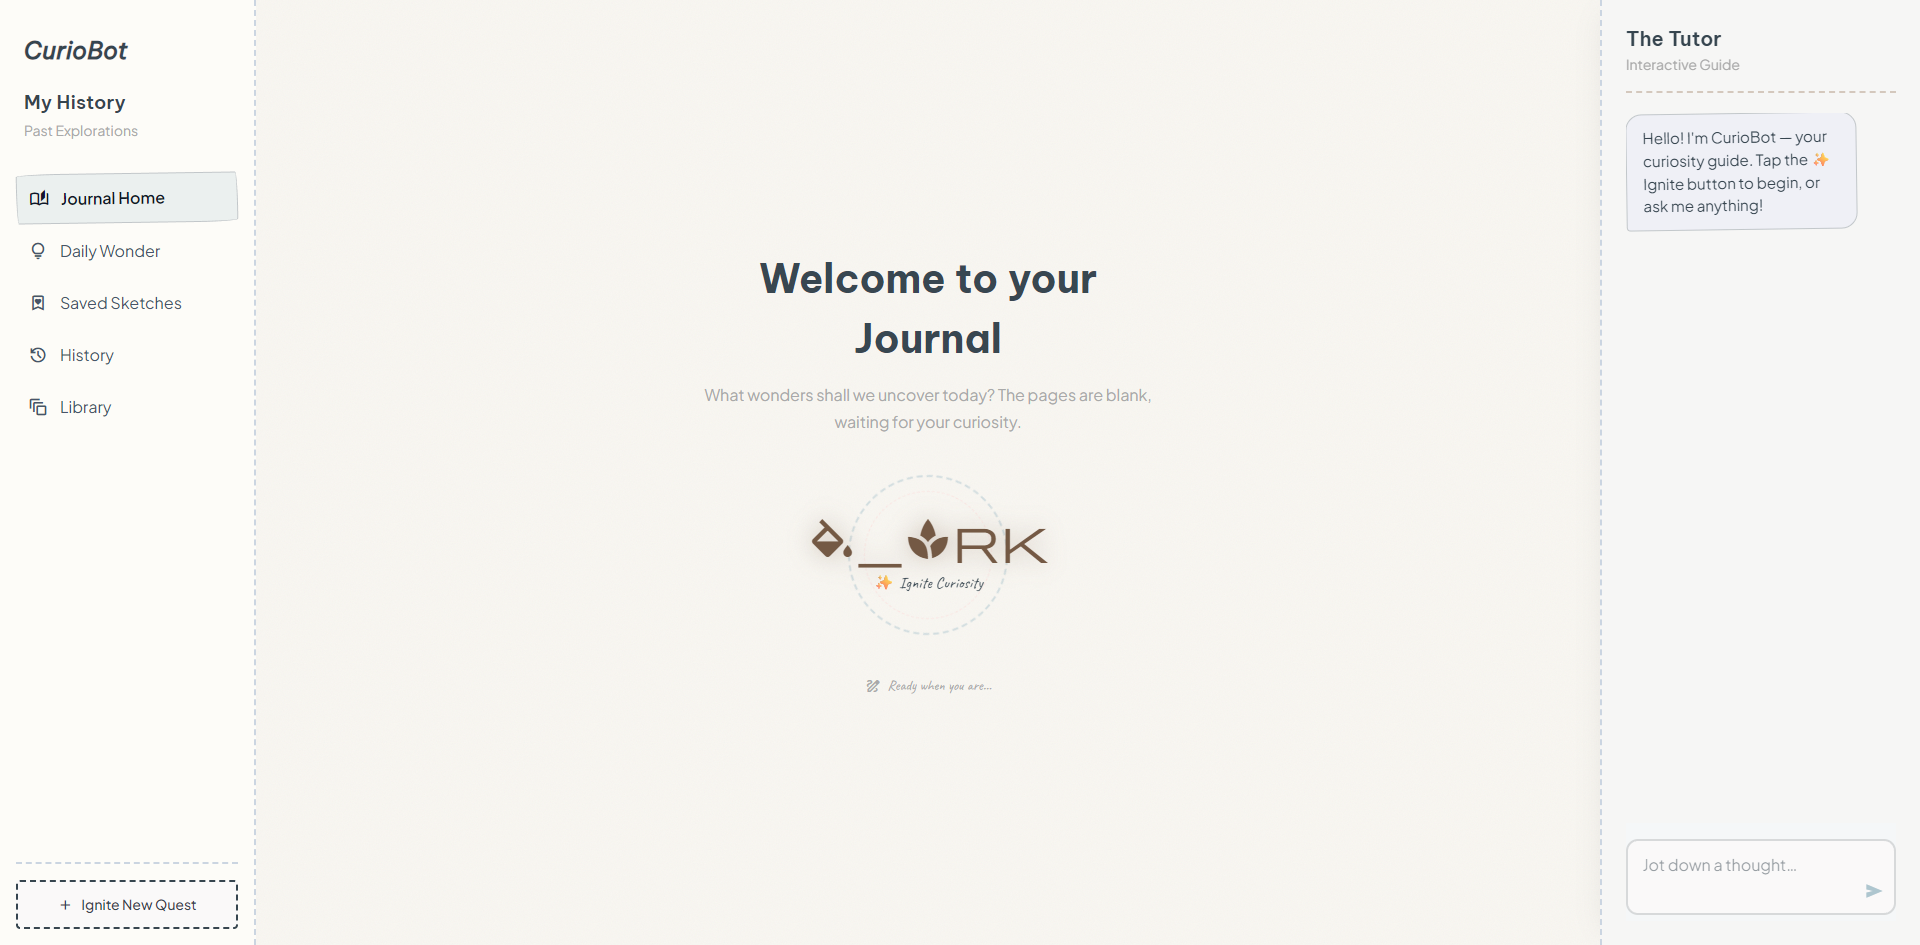
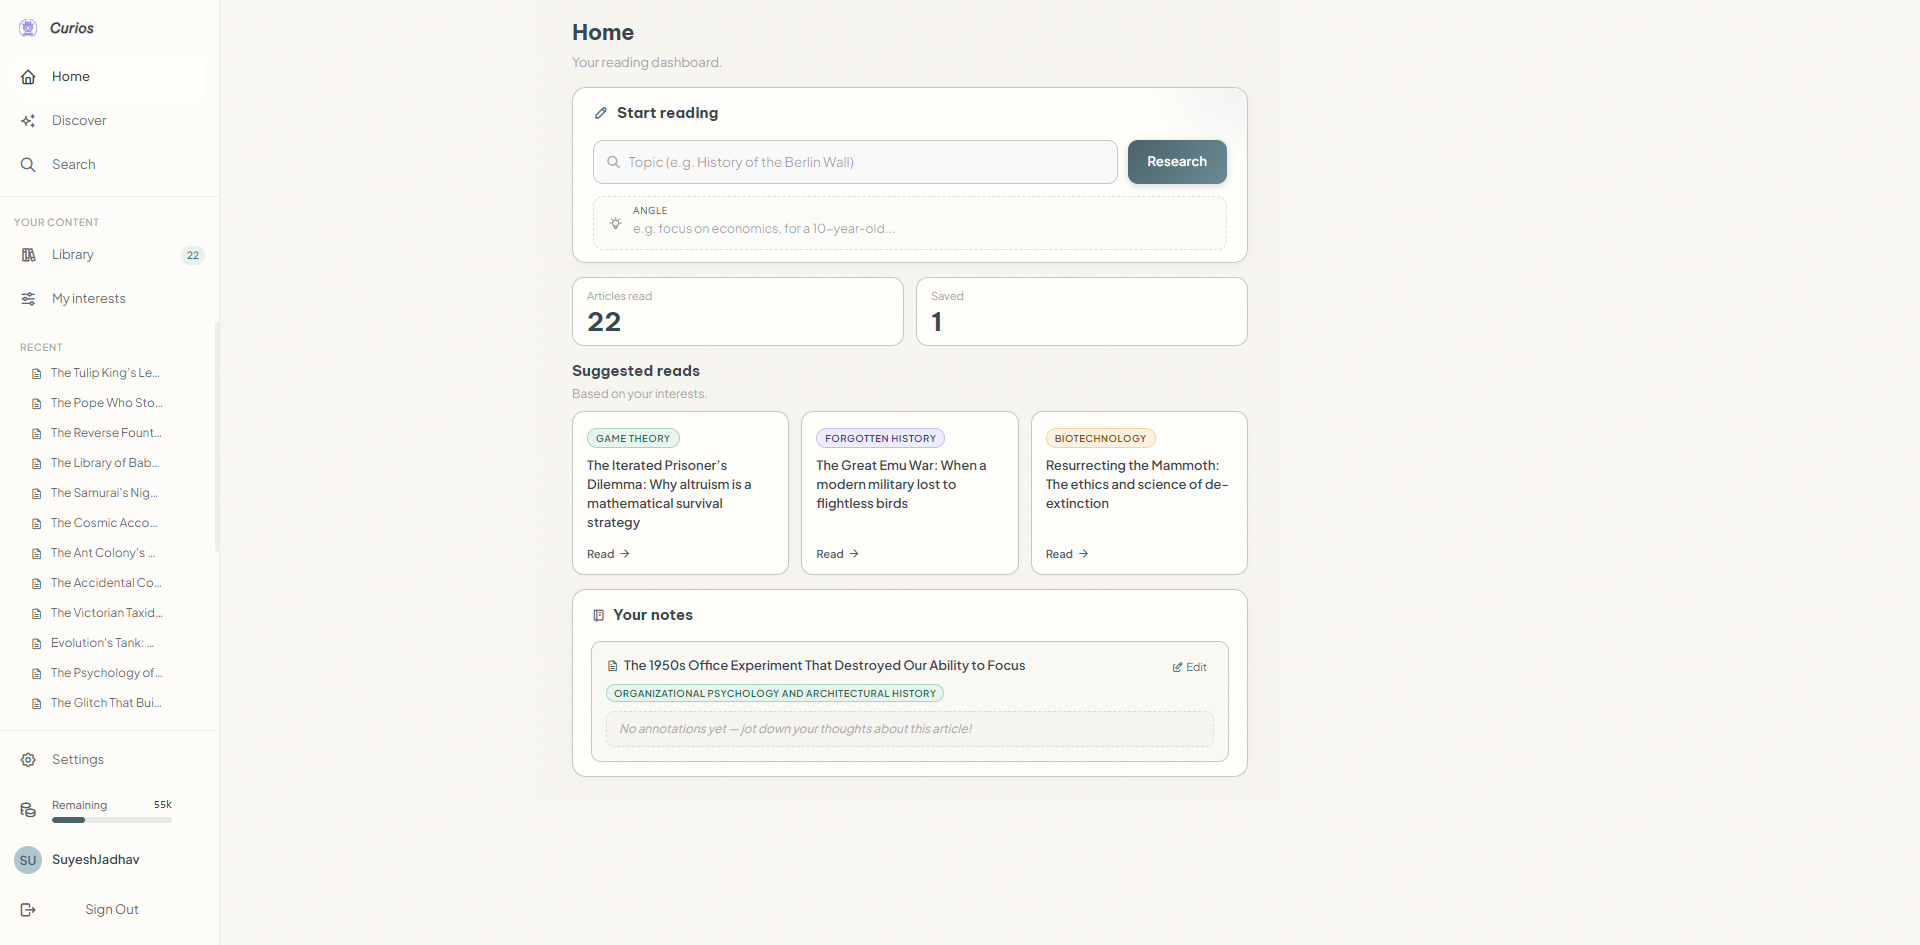
docs: add screenshots to README

diff --git a/README.md b/README.md
@@ -1,19 +1,21 @@
 <div align="center">
   <!-- <img src="assets/logo.png" alt="CurioBot Logo" width="120" /> -->
-  <h1>🌟 CurioBot</h1>
+  <h1>🌟 Curios - AI Curiosity Engine</h1>
 
   <p><b>A multi-agent curiosity engine that dynamically researches and generates highly engaging articles based on your interests.</b></p>
 
-  [![React](https://img.shields.io/badge/React-19-61DAFB?logo=react&logoColor=black)](#)
-  [![TypeScript](https://img.shields.io/badge/TypeScript-5.9-3178C6?logo=typescript&logoColor=white)](#)
-  [![Gemini](https://img.shields.io/badge/Gemini-2.5-8E75B2?logo=google&logoColor=white)](#)
-  [![LangGraph](https://img.shields.io/badge/LangGraph-Agentic-1C3C3C?logo=langchain&logoColor=white)](#)
-  [![MCP](https://img.shields.io/badge/Protocol-MCP-4CAF50?logo=network&logoColor=white)](#)
-  [![BullMQ](https://img.shields.io/badge/Queue-BullMQ-E5342A?logo=redis&logoColor=white)](#)
+[![React](https://img.shields.io/badge/React-19-61DAFB?logo=react&logoColor=black)](#)
+[![TypeScript](https://img.shields.io/badge/TypeScript-5.9-3178C6?logo=typescript&logoColor=white)](#)
+[![Gemini](https://img.shields.io/badge/Gemini-2.5-8E75B2?logo=google&logoColor=white)](#)
+[![LangGraph](https://img.shields.io/badge/LangGraph-Agentic-1C3C3C?logo=langchain&logoColor=white)](#)
+[![MCP](https://img.shields.io/badge/Protocol-MCP-4CAF50?logo=network&logoColor=white)](#)
+[![BullMQ](https://img.shields.io/badge/Queue-BullMQ-E5342A?logo=redis&logoColor=white)](#)
 
   <br />
   <br />
-  <img src="assets/image.png" alt="CurioBot Interface" width="800" style="border-radius: 8px; box-shadow: 0 4px 6px rgba(0,0,0,0.1);" />
+  <img src="assets/image.png" alt="CurioBot Home Dashboard" width="800" style="border-radius: 8px; box-shadow: 0 4px 6px rgba(0,0,0,0.1);" />
+  <br />
+  <img src="assets/article.png" alt="CurioBot Article View with Tutor" width="800" style="border-radius: 8px; box-shadow: 0 4px 6px rgba(0,0,0,0.1);" />
 </div>
 
 ---
@@ -153,11 +155,13 @@ START
 ## 🛠 Tech Stack
 
 ### Frontend
+
 - **Framework:** React 19, Vite, TypeScript
 - **Styling:** Tailwind CSS v4, custom HSL color palette
 - **Markdown Rendering:** `react-markdown`, `remark-gfm`
 
 ### Backend
+
 - **Server:** Node.js, Express, TypeScript
 - **Orchestration:** LangGraph (`@langchain/langgraph`), `@langchain/core`
 - **AI Integrations:** Google GenAI SDK (`@google/genai`)
@@ -170,6 +174,7 @@ START
 ## 🚀 Getting Started
 
 ### Prerequisites
+
 - [Node.js](https://nodejs.org/) (v20+ recommended)
 - [Redis](https://redis.io/) (v7+ recommended, running locally or via a managed service)
 - API Keys:
@@ -182,12 +187,14 @@ START
 ### Installation
 
 1. **Clone the repository:**
+
    ```bash
    git clone https://github.com/SuyeshJadhav/CurioBot.git
    cd CurioBot
    ```
 
 2. **Setup Backend:**
+
    ```bash
    cd backend
    npm install
@@ -205,11 +212,13 @@ START
 ### Running Locally
 
 1. **Start Redis** (if not already running):
+
    ```bash
    redis-server
    ```
 
 2. **Start the backend server** (Express API + embedded BullMQ Worker):
+
    ```bash
    cd backend
    npm run dev
